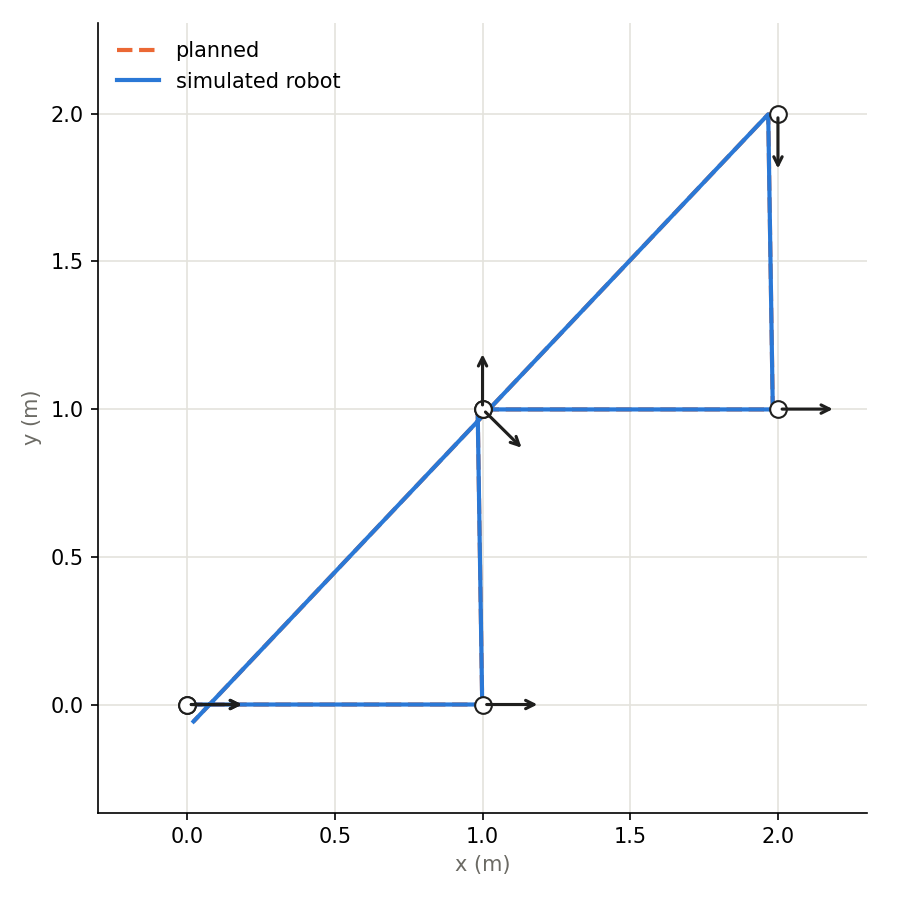
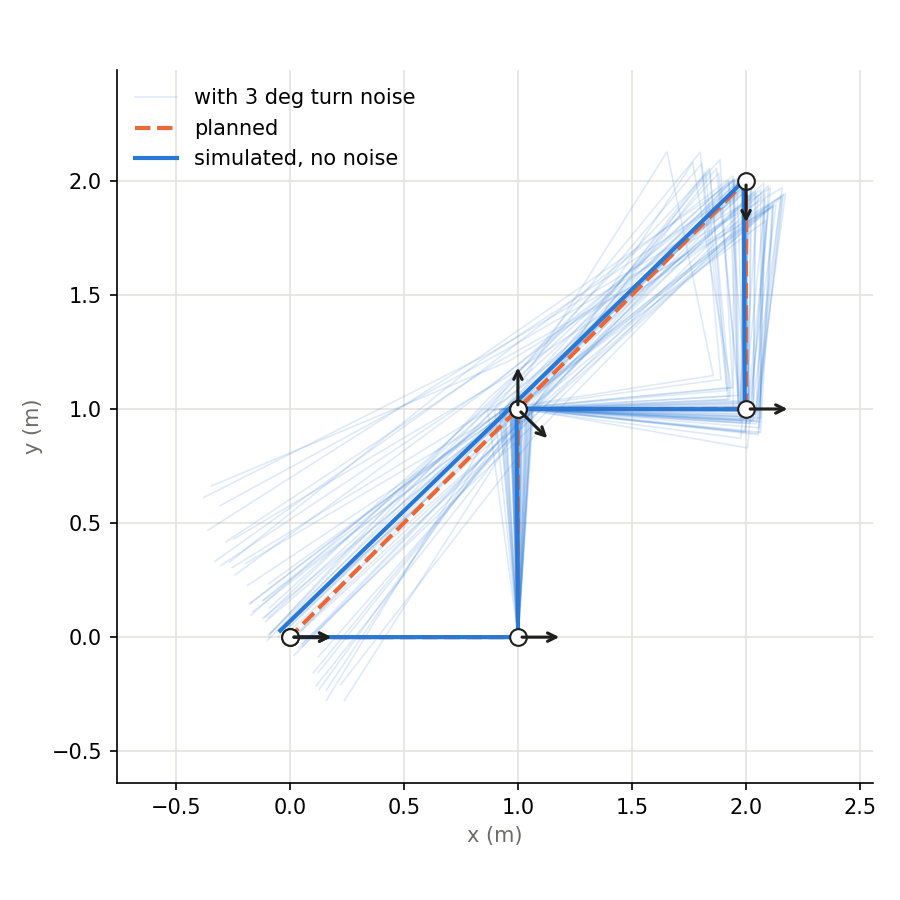
Update the simulation

diff --git a/homework1/simulate.py b/homework1/simulate.py
@@ -2,16 +2,19 @@
 """Run the open-loop plan on a simulated robot whose real parameters can be off.
 
   python3 simulate.py
-  python3 simulate.py --speed-error 0.1 --spin-error -0.1 --drift 0.03
+  python3 simulate.py --speed-error 0.1 --spin-error -0.05 --drift 1
+  python3 simulate.py --turn-noise 3 --trials 500
 """
 
 import argparse
 import math
 import os
+import random
+import statistics
 import sys
-from collections import deque
 
 import matplotlib
+import yaml
 matplotlib.use('Agg')
 import matplotlib.pyplot as plt  # noqa: E402
 
@@ -22,19 +25,33 @@ from robot_control.waypoint_controller import Model, load_waypoints, plan, wrap_
 BLUE, ORANGE, INK, MUTED, GRID = '#2a78d6', '#eb6834', '#1f1f1e', '#6b6a64', '#e4e3dd'
 
 
-def run(steps, twist, start, dt=0.02, delay=0.18):
-    """Integrate the robot pose. The rover reacts about 0.18 s after each command."""
+def load_model(path):
+    with open(path) as f:
+        params = yaml.safe_load(f)['velocity_control']['ros__parameters']
+    return Model(**params)
+
+
+def run(steps, model, start, speed_error=0.0, spin_error=0.0, drift=0.0, turn_noise=0.0,
+        dt=0.01):
+    """Integrate the pose. Each turn also coasts by its calibrated offset after it stops."""
     x, y, th = start
-    pending = deque([(0.0, 0.0)] * round(delay / dt))
     path, reached = [(x, y)], {}
     for step in steps:
+        v = w = extra = 0.0
+        if step.left > 0 and step.right > 0:
+            v = model.speed() * (1 + speed_error)
+            w = math.radians(drift)
+        elif step.left == -step.right != 0:
+            cw = step.right < 0
+            w = math.copysign(model.spin_rate(cw) * (1 + spin_error), step.right)
+            offset = model.cw_offset if cw else model.spin_offset
+            extra = math.copysign(math.radians(offset + random.gauss(0, turn_noise)), step.right)
         for _ in range(round(step.duration / dt)):
-            pending.append((step.left, step.right))
-            v, w = twist(*pending.popleft())
             x += v * math.cos(th) * dt
             y += v * math.sin(th) * dt
             th += w * dt
             path.append((x, y))
+        th += extra
         if step.waypoint is not None:
             reached[step.waypoint] = (x, y, th)
     return path, reached
@@ -43,34 +60,46 @@ def run(steps, twist, start, dt=0.02, delay=0.18):
 def main():
     parser = argparse.ArgumentParser()
     parser.add_argument('--waypoints', default=os.path.join(HERE, 'waypoints.txt'))
+    parser.add_argument('--config', default=os.path.join(HERE, 'config', 'ballroom.yaml'))
     parser.add_argument('--out', default=os.path.join(HERE, 'output', 'simulation.png'))
     parser.add_argument('--speed-error', type=float, default=0.0)
     parser.add_argument('--spin-error', type=float, default=0.0)
     parser.add_argument('--drift', type=float, default=0.0,
-                        help='right wheel faster by this fraction (robot curves left)')
+                        help='deg/s the robot curves left while driving straight')
+    parser.add_argument('--turn-noise', type=float, default=0.0, help='std of each turn, deg')
+    parser.add_argument('--trials', type=int, default=1)
+    parser.add_argument('--seed', type=int, default=0)
     args = parser.parse_args()
+    random.seed(args.seed)
 
     waypoints = load_waypoints(args.waypoints)
-    model = Model()
-    real = Model(speed_per_cmd=model.speed_per_cmd * (1 + args.speed_error),
-                 wheel_base=model.wheel_base / (1 + args.spin_error))
-
-    def real_twist(left, right):
-        return real.twist(left * (1 - args.drift), right * (1 + args.drift))
-
+    model = load_model(args.config)
     steps = plan(waypoints, model)
-    planned, _ = run(steps, model.twist, waypoints[0], delay=0.0)
-    actual, reached = run(steps, real_twist, waypoints[0])
+    errors = dict(speed_error=args.speed_error, spin_error=args.spin_error, drift=args.drift)
+    path, reached = run(steps, model, waypoints[0], **errors)
+    runs = [run(steps, model, waypoints[0], turn_noise=args.turn_noise, **errors)
+            for _ in range(args.trials if args.turn_noise > 0 else 0)]
 
-    print(f'{sum(s.duration for s in steps):.1f} s')
+    print(f'{len(steps)} steps, {sum(s.duration for s in steps):.1f} s')
     for i, (gx, gy, gth) in enumerate(waypoints):
         x, y, th = reached[i]
         print(f'wp{i} ({gx:.2f}, {gy:.2f})  error {math.hypot(x - gx, y - gy):.3f} m, '
               f'{math.degrees(wrap_angle(th - gth)):+.0f} deg')
+    if runs:
+        last = len(waypoints) - 1
+        gx, gy, _ = waypoints[last]
+        final = sorted(math.hypot(r[last][0] - gx, r[last][1] - gy) for _, r in runs)
+        print(f'{args.trials} trials, final error: median {statistics.median(final):.3f} m, '
+              f'90% within {final[int(0.9 * len(final))]:.3f} m, '
+              f'within 0.3 m: {sum(e <= 0.3 for e in final) / len(final):.0%}')
 
     fig, ax = plt.subplots(figsize=(6, 6))
-    ax.plot(*zip(*planned), color=ORANGE, lw=2, ls='--', label='planned')
-    ax.plot(*zip(*actual), color=BLUE, lw=2, label='simulated robot')
+    for i, (p, _) in enumerate(runs[:50]):
+        ax.plot(*zip(*p), color=BLUE, lw=0.8, alpha=0.15,
+                label=f'with {args.turn_noise:g} deg turn noise' if i == 0 else None)
+    ax.plot(*zip(*[(w[0], w[1]) for w in waypoints]), color=ORANGE, lw=2, ls='--',
+            label='planned')
+    ax.plot(*zip(*path), color=BLUE, lw=2, label='simulated, no noise')
     for gx, gy, gth in waypoints:
         ax.annotate('', xy=(gx + 0.2 * math.cos(gth), gy + 0.2 * math.sin(gth)), xytext=(gx, gy),
                     arrowprops=dict(arrowstyle='->', color=INK, lw=1.5))
